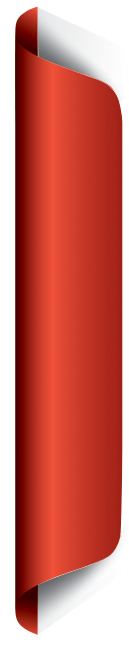
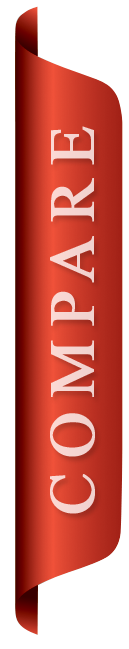
Compare page styling

diff --git a/modules/_GV/gv_misc/js/gv_compareProviders.js b/modules/_GV/gv_misc/js/gv_compareProviders.js
@@ -4,7 +4,7 @@
     attach: function (context, settings) {
            
        
-       $('#block-views-providers-block_top_business_cmp').append('<div class="compare-button" id="b1" style="display: none; height: 100px; width: 35px; background-color: red; position: absolute; right: -10px;top: 220px;"></div>');
+       $('#block-views-providers-block_top_business_cmp').append('<div class="compare-button" id="b1" style="display: none; height: 100px; width: 35px; background-color: red; position: absolute; right: -10px;top: 220px;"><img src="/sites/all/themes/gv_orange/css/images/compare-button.png" heigh="150px"/></div>');
          
          
          
